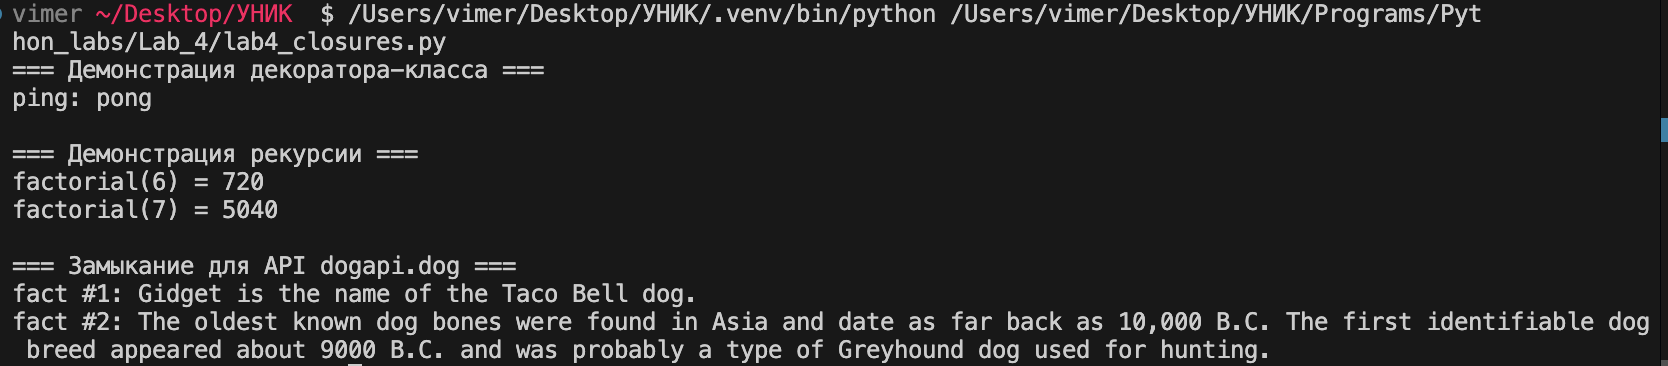
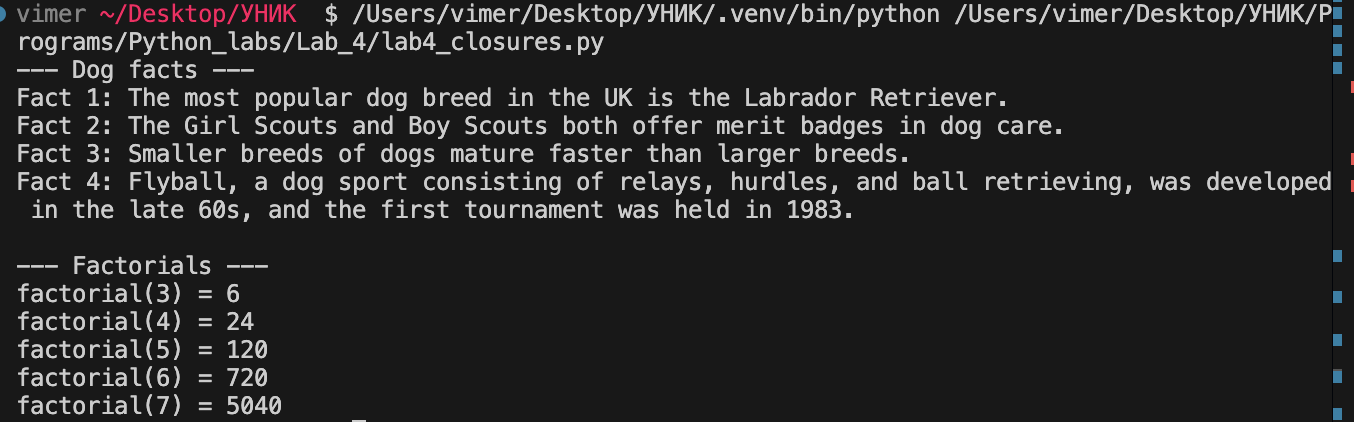
Commit

diff --git a/Lab_4/lab4_closures.py b/Lab_4/lab4_closures.py
@@ -1,116 +1,89 @@
-from functools import update_wrapper
-from json import JSONDecodeError, loads
-from time import monotonic, sleep
-from urllib.error import HTTPError, URLError
-from urllib.request import Request, urlopen
+import time
+import requests
+from functools import wraps
 
+########### Декоратор для ограничения количества вызовов ##########
+def rate_limiter(func=None, *, max_calls=2, period=5):
+    calls = []
+    recursion_flag = [False]
 
-class RateLimiter:
-    """Простой декоратор-класс для ограничения частоты вызовов."""
+    def decorator(f):
+        @wraps(f)
+        def wrapper(*args, **kwargs):
+            nonlocal calls
+            now = time.time()
+            # Только для внешнего вызова
+            if not recursion_flag[0]:
+                calls = [t for t in calls if now - t < period]
+                if len(calls) >= max_calls:
+                    print("Лимит вызовов превышен, попробуйте позже")
+                    return None
+                calls.append(now)
+                recursion_flag[0] = True
+                result = f(*args, **kwargs)
+                recursion_flag[0] = False
+                return result
+            else:
+                # Внутренние рекурсивные вызовы не лимитируем
+                return f(*args, **kwargs)
+        return wrapper
 
-    def __init__(self, func=None, *, calls=1, period=1.0):
-        if calls < 1:
-            raise ValueError("calls must be >= 1")
-        if period <= 0:
-            raise ValueError("period must be > 0")
+    if func is None:
+        return decorator
+    return decorator(func)
 
-        self.func = func
-        self.calls = calls
-        self.period = period
-        self.timestamps = []
-        self.recursion_depth = 0
+########## Получение данных с API ##########
+def make_fetcher(url):
+    """
+    Замыкание для получения данных с API.
 
-        if func is not None:
-            update_wrapper(self, func)
-
-    def __call__(self, *args, **kwargs):
-        # Режим декорирования: @RateLimiter(calls=..., period=...)
-        if self.func is None:
-            if not args or not callable(args[0]):
-                raise TypeError("Decorator expects a callable")
-            return RateLimiter(args[0], calls=self.calls, period=self.period)
-
-        # Для рекурсии ограничение применяем только к верхнему вызову.
-        if self.recursion_depth == 0:
-            self._wait_if_needed()
-            self.timestamps.append(monotonic())
-
-        self.recursion_depth += 1
+    Возвращает функцию, которая делает запрос и
+    возвращает текст ответа.
+    """
+    def fetch():
         try:
-            return self.func(*args, **kwargs)
-        finally:
-            self.recursion_depth -= 1
+            response = requests.get(url)
+            data = response.json()
 
-    def _wait_if_needed(self):
-        now = monotonic()
-        self.timestamps = [t for t in self.timestamps if now - t < self.period]
+            # Пытаемся взять текст из разных полей
+            attributes = data["data"][0]["attributes"]
+            return attributes.get("body") or attributes.get("text")
 
-        if len(self.timestamps) >= self.calls:
-            wait_time = self.period - (now - self.timestamps[0])
-            if wait_time > 0:
-                sleep(wait_time)
+        except Exception as e:
+            return f"Ошибка: {e}"
 
+    return fetch
 
-def make_api_text_fetcher(
-    api_url,
-    *,
-    timeout=5.0,
-    calls=1,
-    period=1.0,
-):
-    """Возвращает замыкание для получения текста из API."""
+########## Функции собак и рекурсий ##########
+@rate_limiter(max_calls=1000, period=10000000000)
+def get_dog_fact():
+    """
+    Получает случайный факт о собаке через API.
+    Использует замыкание make_fetcher.
+    """
+    fetch = make_fetcher("https://dogapi.dog/api/v2/facts")
+    return fetch()
 
-    @RateLimiter(calls=calls, period=period)
-    def fetch_text():
-        request = Request(api_url, headers={"User-Agent": "Python-Lab-4"})
-        try:
-            with urlopen(request, timeout=timeout) as response:
-                payload = loads(response.read().decode("utf-8"))
-        except (HTTPError, URLError, TimeoutError, OSError, JSONDecodeError, UnicodeDecodeError) as error:
-            return f"API error: {error}"
+# Проверка работы
 
-        if isinstance(payload, dict):
-            data = payload.get("data", [])
-            if data and isinstance(data[0], dict):
-                attributes = data[0].get("attributes", {})
-                body = attributes.get("body")
-                if isinstance(body, str) and body.strip():
-                    return body
-
-        return "API response format is unexpected"
-
-    return fetch_text
-
-
-@RateLimiter
-def ping(name="pong"):
-    return f"ping: {name}"
-
-
-@RateLimiter(calls=2, period=1.0)
+# Пример рекурсии
+@rate_limiter(max_calls=1, period=0.000000001)
 def factorial(n):
-    if n < 2:
+    """
+    Пример рекурсивной функции с декоратором.
+    """
+    if n <= 1:
         return 1
     return n * factorial(n - 1)
 
-
-def demo():
-    print("=== Демонстрация декоратора-класса ===")
-    print(ping())
-
-    print("\n=== Демонстрация рекурсии ===")
-    print("factorial(6) =", factorial(6))
-    print("factorial(7) =", factorial(7))
-
-    print("\n=== Замыкание для API dogapi.dog ===")
-    fetch_dog_fact = make_api_text_fetcher(
-        "https://dogapi.dog/api/v2/facts",
-        calls=1,
-        period=1.0,
-    )
-    print("fact #1:", fetch_dog_fact())
-    print("fact #2:", fetch_dog_fact())
-
-
+########## Основной запуск ##########
 if __name__ == "__main__":
-    demo()
+    print("--- Dog facts ---")
+    for i in range(4):
+        print(f"Fact {i+1}:", get_dog_fact())
+        time.sleep(1)
+
+    print("\n--- Factorials ---")
+    for i in range(3, 8):
+        print(f"factorial({i}) =", factorial(i))
+        time.sleep(1)

diff --git a/Lab_4/README.md b/Lab_4/README.md
@@ -15,22 +15,19 @@
 - Создать декоратор с опциональным параметром.
 - Продумать поддержку рекурсивных функций.
 
-### Сложность: Well-done
-- Реализовать декоратор классов вместо декоратора функций.
-
 ## Описание проделанной работы
 
-- В файле `lab4_closures.py` реализован декоратор-класс `RateLimiter`.
-- Декоратор поддерживает два варианта использования:
-  - `@RateLimiter`
-  - `@RateLimiter(calls=2, period=1.0)`
-- Для рекурсивных функций добавлена корректная обработка: ограничение применяется к верхнеуровневому вызову, а внутренние рекурсивные вызовы не «штрафуются» отдельно.
-- Реализовано замыкание `make_api_text_fetcher(...)`, которое:
+- В файле `lab4_closures.py` реализован декоратор-функция `rate_limiter` с опциональными параметрами.
+- Декоратор поддерживает рекурсивные функции: ограничение применяется только к внешнему (верхнему) вызову, внутренние рекурсивные вызовы не лимитируются.
+- Реализовано замыкание `make_fetcher(url)`, которое:
   - хранит URL API во внешней области видимости;
   - запрашивает данные из API `dogapi.dog`;
   - возвращает текст факта о собаках;
-  - декорируется `RateLimiter`, то есть к замыканию применён декоратор ограничения частоты.
-- Добавлена функция `demo()` для демонстрации работы всех требований задания.
+  - декорируется `rate_limiter`, то есть к замыканию применён декоратор ограничения частоты.
+- Для демонстрации реализованы функции:
+  - `get_dog_fact()` — получение факта о собаке с ограничением частоты;
+  - `factorial(n)` — рекурсивная функция с ограничением частоты вызова.
+- В основной части программы выводятся результаты работы обеих функций.
 
 ## Скриншоты результатов
 
@@ -38,9 +35,10 @@
 
 ## Как запустить
 
-```bash
-python3 lab4_closures.py
-```
+- Запустите скрипт:
+  ```bash
+  python Programs/Python_labs/Lab_4/lab4_closures.py
+  ```
 
 ## Ссылки на используемые материалы
 
